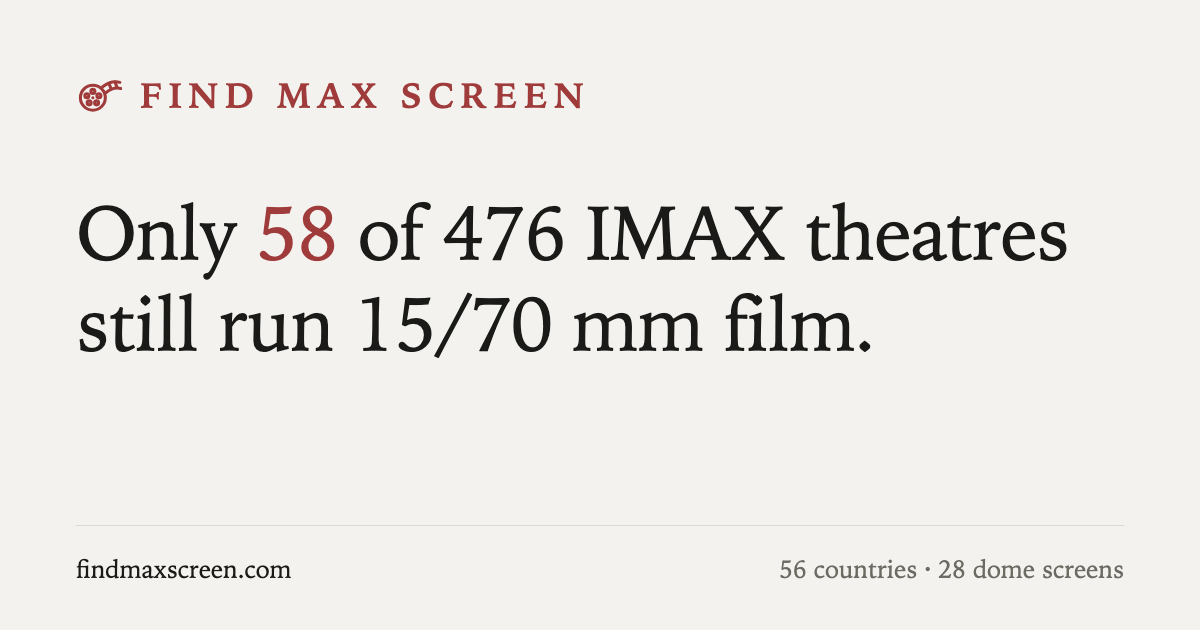
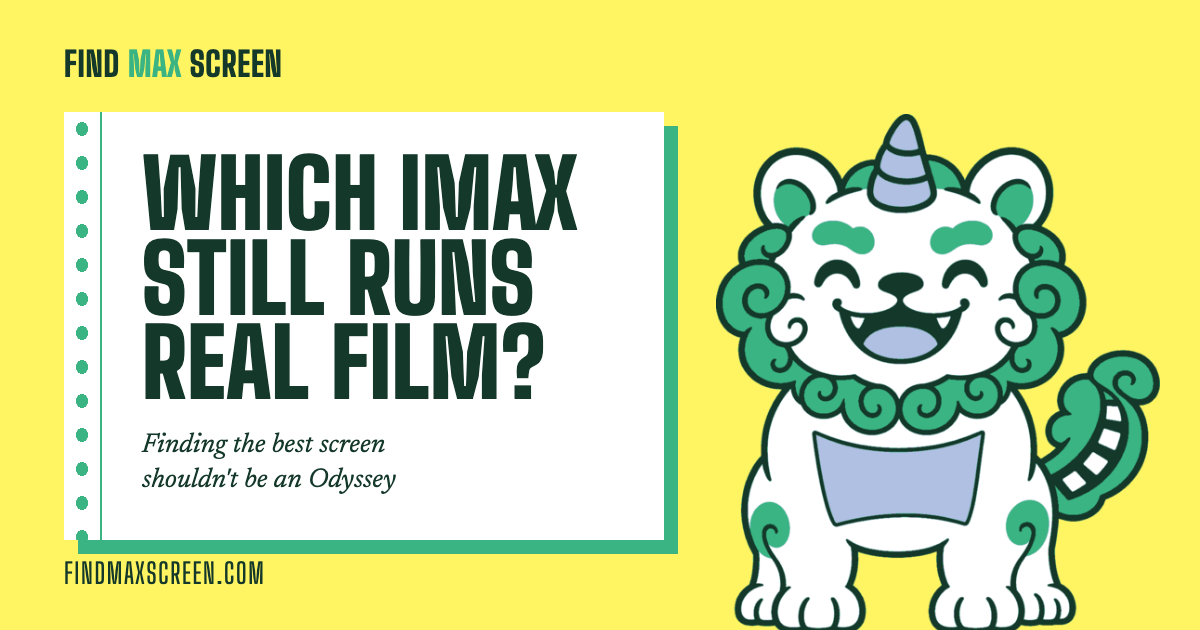
Redraw the share card in the poster look, with the mascot
The link preview was still the cream-and-oxblood card. It is now the
yellow sheet: the question on its white frame with the sprocket rail and
green shadow, the Odyssey line under it, the mascot beside, and the
domain along the foot. Rendered from a throwaway HTML card with the
site's own fonts at exactly 1200 by 630. The image alt no longer quotes
counts that go stale.

diff --git a/web/index.html b/web/index.html
@@ -65,7 +65,7 @@
 <meta property="og:image:type" content="image/png">
 <meta property="og:image:width" content="1200">
 <meta property="og:image:height" content="630">
-<meta property="og:image:alt" content="Find Max Screen: only 58 of 476 IMAX theatres still run 15/70 mm film.">
+<meta property="og:image:alt" content="Find Max Screen: which IMAX still runs real film? The site's mascot, a smiling haetae, beside the question.">
 <meta name="twitter:card" content="summary_large_image">
 
 <!-- iMessage falls back to this when it declines the og:image, and iOS uses it
